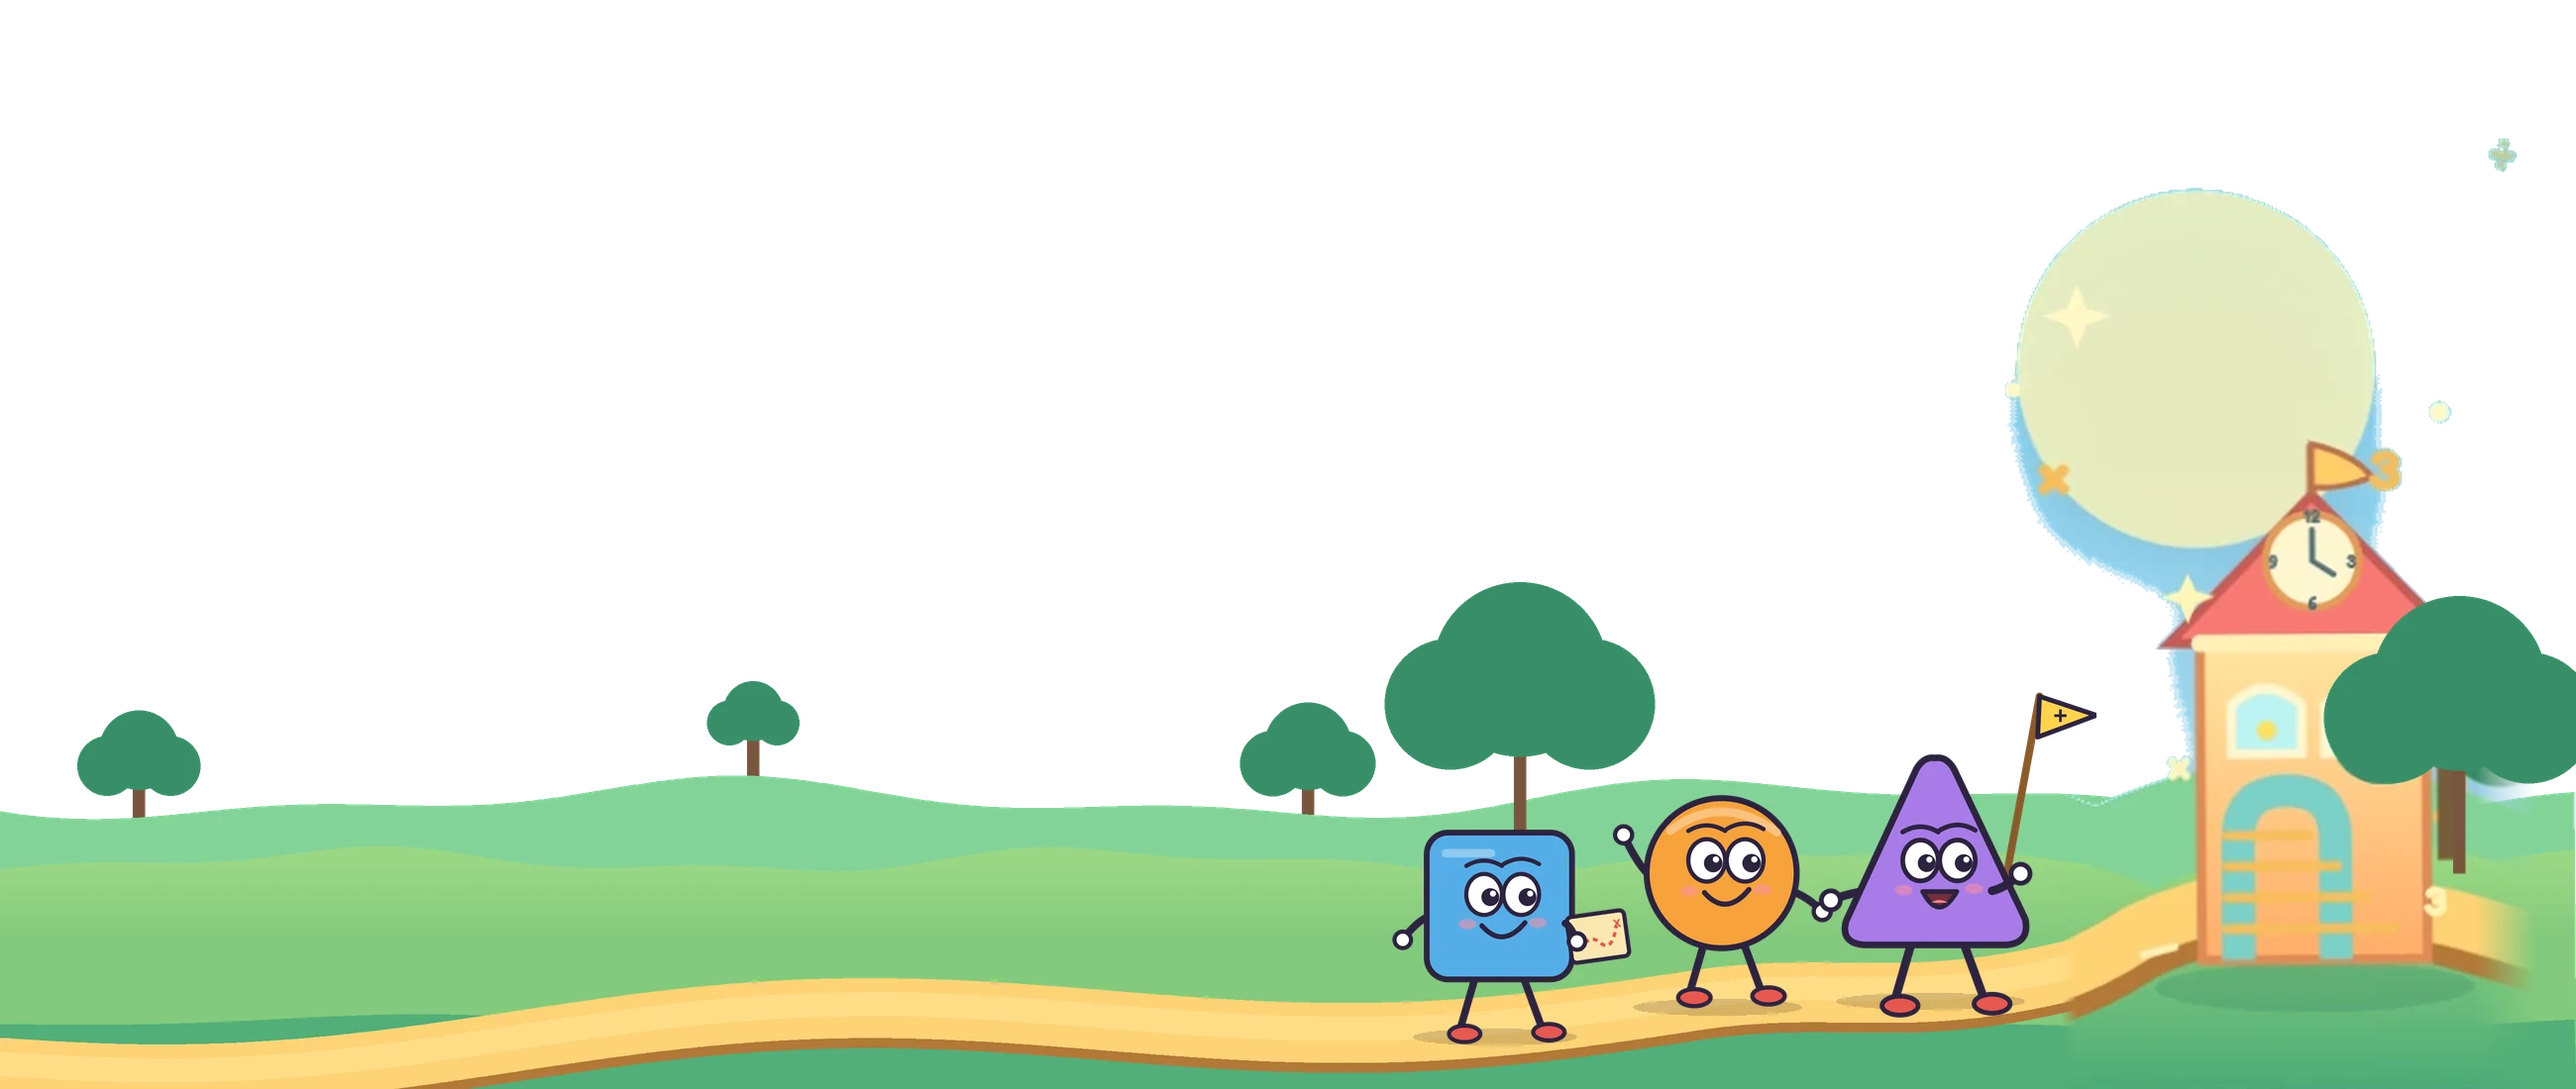
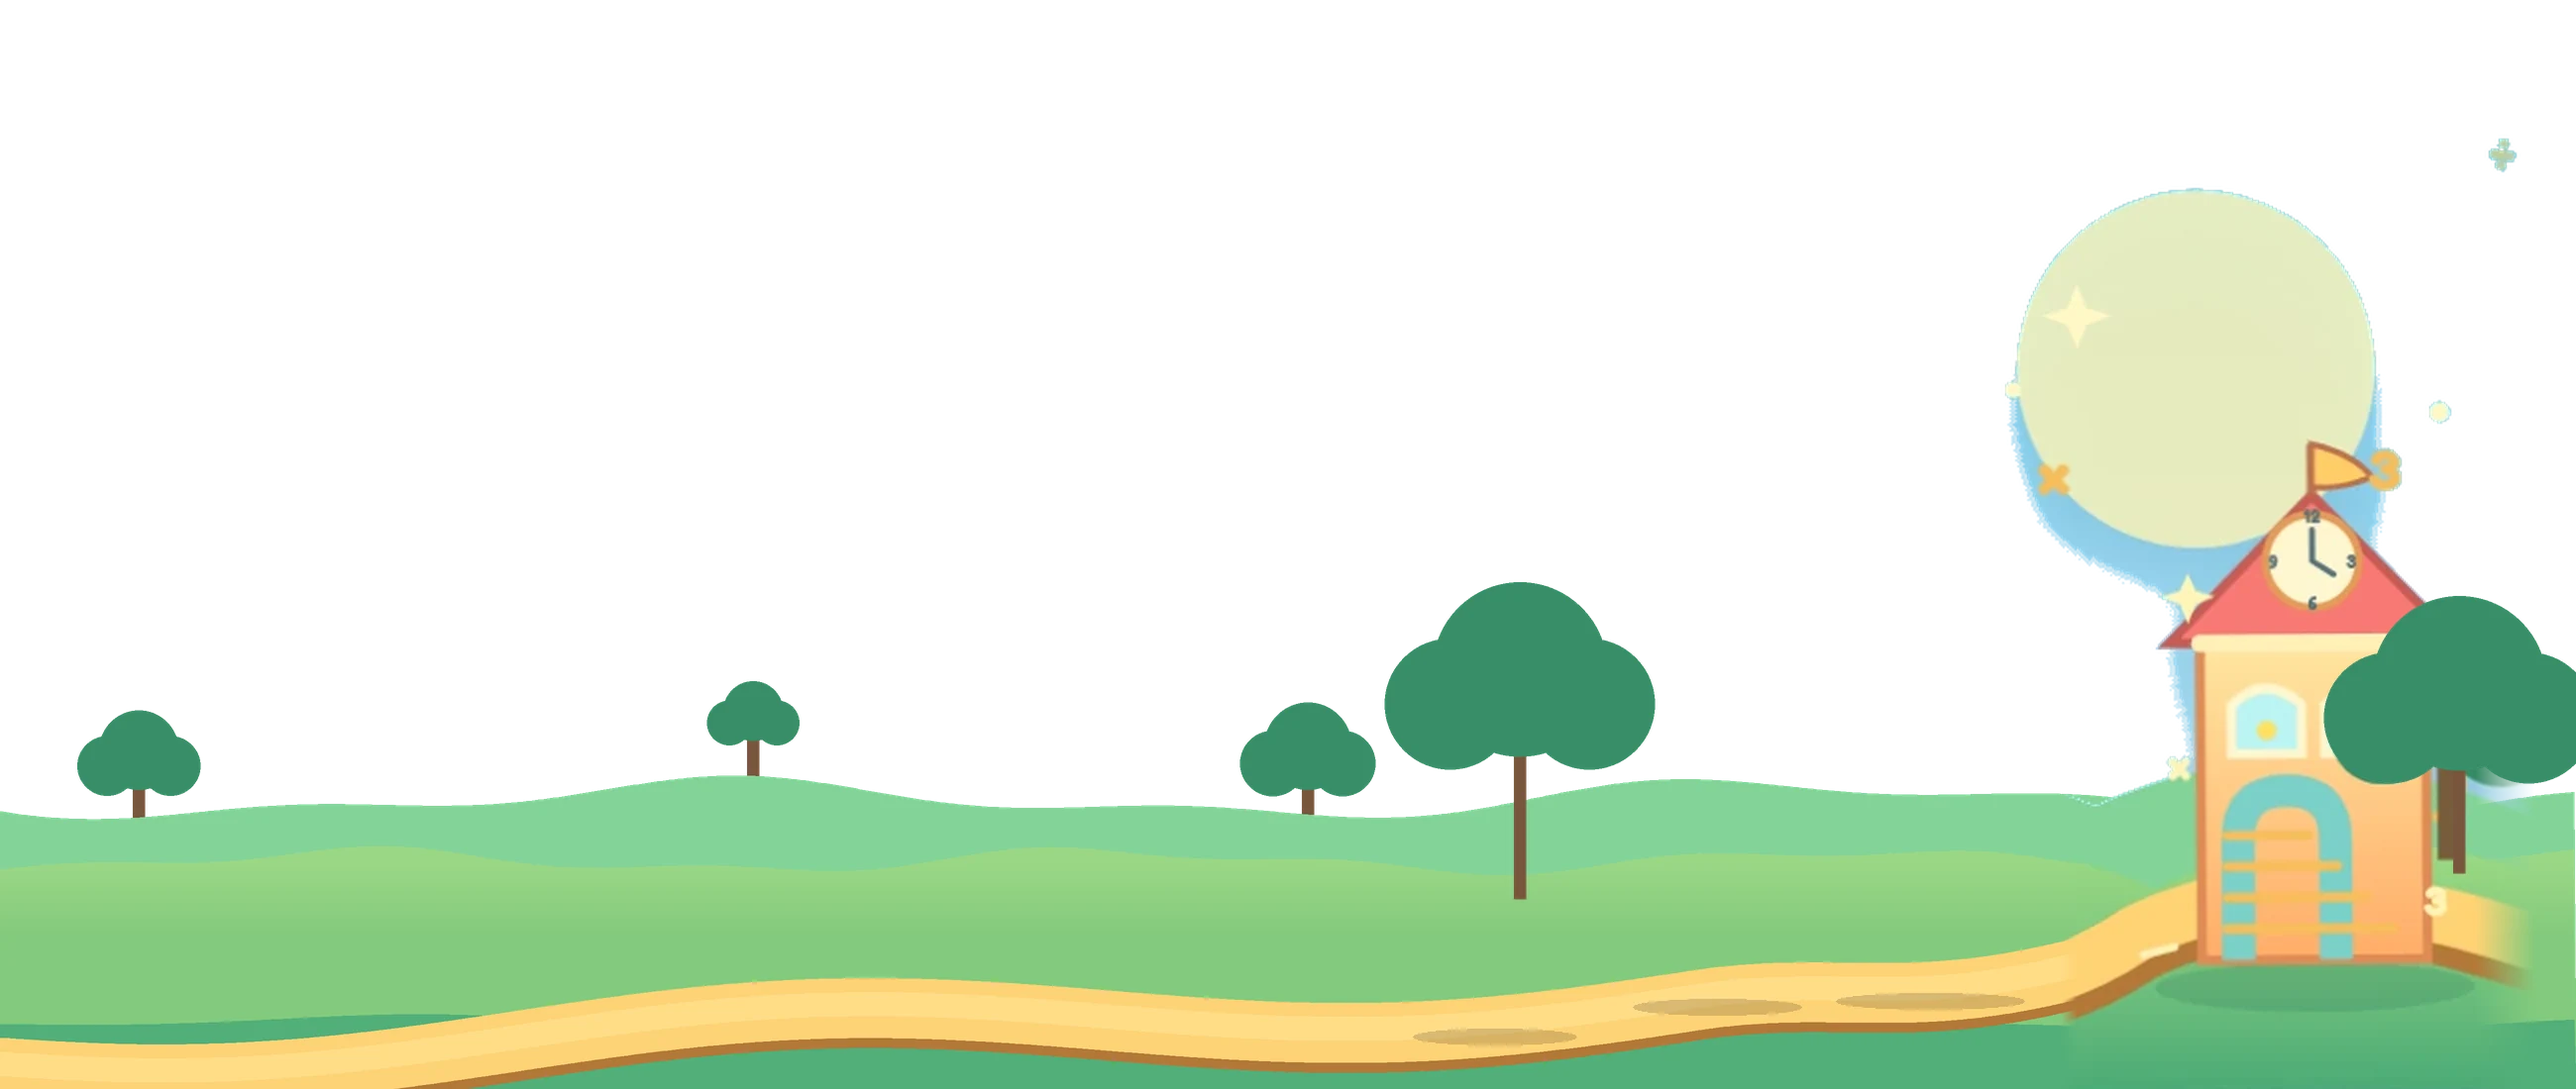
Moving shape friends on the landing page
Friends walk, wave and blink; flag flutters; maths symbols float

Changed region(s): [[0.5296, 0.6182, 0.81, 0.9582]]

diff --git a/index.html b/index.html
@@ -107,6 +107,13 @@ footer .mid{font-size:15px;opacity:.9;text-align:center}footer .mid a{color:#FFD
 .pcard li::before{content:"✓";flex:none;width:22px;height:22px;border-radius:50%;background:#2DB89A;color:#fff;display:grid;place-items:center;font-size:13px}
 .pcard .btn{text-align:center;display:flex;justify-content:center}
 @media(max-width:900px){.pgrid{grid-template-columns:1fr}.pcard.best{transform:none}}
+/* moving shape friends */
+.herofx{position:absolute;right:0;bottom:52px;height:92%;aspect-ratio:2600/1100;pointer-events:none}
+.herofx img{position:absolute;height:auto}
+.flo{position:absolute;font-family:Fredoka,sans-serif;font-weight:700;color:#fff;opacity:0;font-size:30px;text-shadow:0 2px 6px rgba(22,54,94,.15);animation:flo 9s linear infinite}
+@keyframes flo{0%{opacity:0;transform:translateY(30px) rotate(-8deg)}15%{opacity:.85}80%{opacity:.7}100%{opacity:0;transform:translateY(-140px) rotate(8deg)}}
+@media(max-width:900px){.herofx{bottom:38px;height:250px}.flo{display:none}}
+@media(prefers-reduced-motion:reduce){.flo{display:none}}
 </style>
 </head>
 <body>
@@ -124,8 +131,14 @@ footer .mid{font-size:15px;opacity:.9;text-align:center}footer .mid a{color:#FFD
    <p>Seven magical worlds. Endless discoveries. A colourful journey that makes every maths moment feel like an adventure.</p>
    <div class="ctas"><a class="btn gold" href="#worlds">Explore the worlds →</a><a class="btn ghost" href="#schools">For schools</a></div>
   </div>
-  <div class="herospace" role="img" aria-label="An explorer racing the clock along the golden trail to Maths Quest school"></div>
+  <div class="herospace" role="img" aria-label="Three shape friends walking along the golden trail to Maths Quest school"></div>
  </div>
+ <div class="herofx" aria-hidden="true">
+  <img src="img/friend-square.svg" alt="" style="left:53.077%;top:69.636%;width:10.577%">
+  <img src="img/friend-circle.svg" alt="" style="left:61.538%;top:66.091%;width:10.923%">
+  <img src="img/friend-triangle.svg" alt="" style="left:69.231%;top:62.636%;width:12.154%">
+ </div>
+ <span class="flo" style="left:44%;top:46%">+</span><span class="flo" style="left:56%;top:40%;animation-delay:3s">3</span><span class="flo" style="left:70%;top:20%;animation-delay:6s;color:#FFF6C9">×</span><span class="flo" style="left:38%;top:58%;animation-delay:4.5s;color:#E6F3FB">7</span>
  <div class="wave"></div>
 </section>
 
